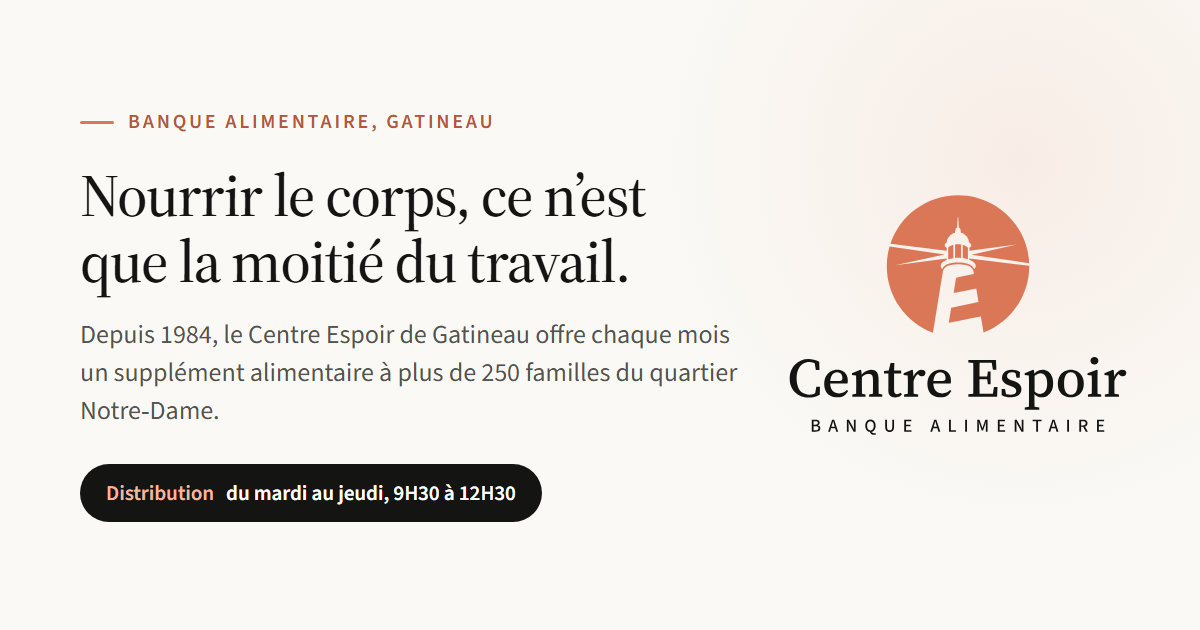
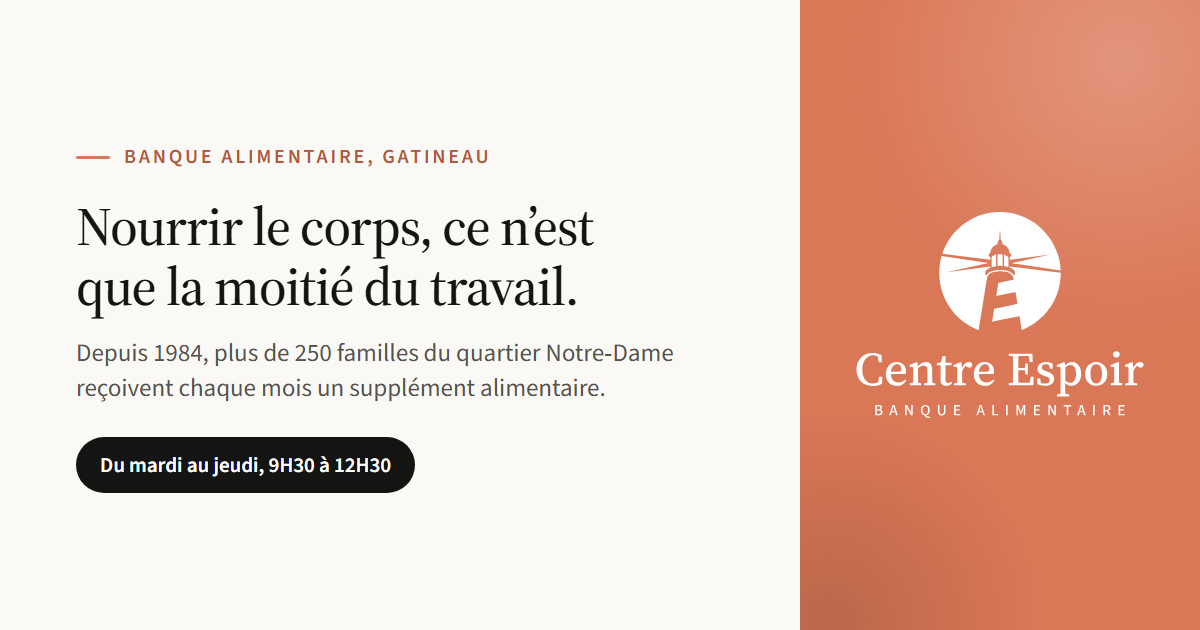
Une carte de partage par page, et le site pret pour Google
- Six cartes 1200 x 630 : les mots sur creme, le logo blanc sur un panneau
  terracotta. Chaque page annonce la sienne, avec un numero de version.
- Titres sous 60 caracteres, descriptions entre 110 et 158, sur toutes les
  pages ; un test le verifie.
- Donnees structurees NGO + LocalBusiness : adresse, coordonnees, heures
  d ouverture, numero d enregistrement, territoire desservi.
- Balises Twitter et og:image:alt.
- Redirections des anciennes adresses Wix probables vers les bonnes pages.
- Le guide explique a David Search Console, la fiche Google et Wix.

diff --git a/src/partials/layout.html b/src/partials/layout.html
@@ -17,35 +17,69 @@
   <meta property="og:title" content="{{ title }}">
   <meta property="og:description" content="{{ description }}">
   <meta property="og:url" content="{{ canonical }}">
-  <meta property="og:image" content="https://centreespoir.ca/og.png?v={{ og_v }}">
+  <meta property="og:image" content="{{ og_image }}">
   <meta property="og:image:width" content="1200">
   <meta property="og:image:height" content="630">
+  <meta property="og:image:alt" content="{{ og_alt }}">
   <meta name="twitter:card" content="summary_large_image">
+  <meta name="twitter:title" content="{{ title }}">
+  <meta name="twitter:description" content="{{ description }}">
+  <meta name="twitter:image" content="{{ og_image }}">
+  <meta name="twitter:image:alt" content="{{ og_alt }}">
   <link rel="preload" href="/assets/fonts/SourceSerif4-normal-400-700.woff2" as="font" type="font/woff2" crossorigin>
   <link rel="preload" href="/assets/fonts/SourceSans3-normal-400-700.woff2" as="font" type="font/woff2" crossorigin>
   <link rel="stylesheet" href="{{ css }}">
   <script type="application/ld+json">
   {
     "@context": "https://schema.org",
-    "@type": "NGO",
-    "name": "Centre Espoir de Gatineau",
-    "alternateName": "Centre Espoir",
-    "url": "https://centreespoir.ca",
-    "logo": "https://centreespoir.ca/assets/img/logo-vertical.svg",
-    "foundingDate": "1984",
-    "telephone": "+1-819-663-3238",
-    "email": "info@centreespoir.ca",
-    "address": {
-      "@type": "PostalAddress",
-      "streetAddress": "791, boulevard Maloney Est",
-      "addressLocality": "Gatineau",
-      "addressRegion": "QC",
-      "postalCode": "J8P 1H8",
-      "addressCountry": "CA"
-    },
-    "sameAs": [
-      "https://www.facebook.com/centreespoirgatineau",
-      "https://www.instagram.com/centreespoirgatineau"
+    "@graph": [
+      {
+        "@type": "WebSite",
+        "@id": "https://centreespoir.ca/#site",
+        "url": "https://centreespoir.ca",
+        "name": "Centre Espoir de Gatineau",
+        "inLanguage": "fr-CA",
+        "publisher": { "@id": "https://centreespoir.ca/#org" }
+      },
+      {
+        "@type": ["NGO", "LocalBusiness"],
+        "@id": "https://centreespoir.ca/#org",
+        "name": "Centre Espoir de Gatineau",
+        "alternateName": "Centre Espoir",
+        "legalName": "Centre Espoir de Gatineau",
+        "description": "Banque alimentaire fondée en 1984 au service du quartier Notre-Dame et des secteurs environnants de Gatineau. Plus de 250 familles aidées chaque mois.",
+        "slogan": "Nourrir le corps, ce n’est que la moitié du travail.",
+        "url": "https://centreespoir.ca",
+        "logo": "https://centreespoir.ca/assets/img/logo-vertical.svg",
+        "image": "https://centreespoir.ca/og.png",
+        "foundingDate": "1984",
+        "taxID": "848106365RR0001",
+        "telephone": "+1-819-663-3238",
+        "email": "info@centreespoir.ca",
+        "priceRange": "$",
+        "address": {
+          "@type": "PostalAddress",
+          "streetAddress": "791, boulevard Maloney Est",
+          "addressLocality": "Gatineau",
+          "addressRegion": "QC",
+          "postalCode": "J8P 1H8",
+          "addressCountry": "CA"
+        },
+        "geo": { "@type": "GeoCoordinates", "latitude": 45.4830815, "longitude": -75.614716 },
+        "hasMap": "https://maps.google.com/?q=791+Boulevard+Maloney+E,+Gatineau,+QC+J8P+1H8",
+        "areaServed": { "@type": "City", "name": "Gatineau", "sameAs": "https://www.wikidata.org/wiki/Q140884" },
+        "openingHoursSpecification": [{
+          "@type": "OpeningHoursSpecification",
+          "dayOfWeek": ["Tuesday", "Wednesday", "Thursday"],
+          "opens": "09:30",
+          "closes": "12:30"
+        }],
+        "knowsLanguage": ["fr-CA", "en-CA"],
+        "sameAs": [
+          "https://www.facebook.com/centreespoirgatineau",
+          "https://www.instagram.com/centreespoirgatineau"
+        ]
+      }
     ]
   }
   </script>

diff --git a/test/site.test.js b/test/site.test.js
@@ -39,6 +39,19 @@ test('every page has a title, a description, one h1, and no leftover template ma
   }
 });
 
+test('titles fit a search result and descriptions fit a preview', () => {
+  for (const [f, h] of Object.entries(html)) {
+    const title = h.match(/<title>([^<]+)<\/title>/)[1];
+    const desc = h.match(/<meta name="description" content="([^"]+)"/)[1];
+    assert.ok(title.length <= 60, `${f}: title is ${title.length} chars, max 60`);
+    assert.ok(desc.length >= 110 && desc.length <= 158, `${f}: description is ${desc.length} chars, want 110 to 158`);
+    const og = h.match(/<meta property="og:image" content="https:\/\/centreespoir\.ca\/([^"?]+)\?v=[0-9a-f]{10}"/);
+    assert.ok(og, `${f}: og:image must be an absolute, versioned address`);
+    assert.ok(fs.existsSync(path.join(OUT, og[1])), `${f}: share card ${og[1]} does not exist`);
+    assert.match(h, /"@type": \["NGO", "LocalBusiness"\]/, `${f}: structured data`);
+  }
+});
+
 test('internal links and local assets resolve to files', () => {
   const exists = (u) => {
     const clean = u.split(/[?#]/)[0];

diff --git a/src/pages/aide-alimentaire.html b/src/pages/aide-alimentaire.html
@@ -1,7 +1,9 @@
 ---
-title: Aide alimentaire, Centre Espoir de Gatineau
-description: Vous habitez le quartier Notre-Dame ou les secteurs environnants et les fins de mois sont difficiles? Le Centre Espoir distribue des paniers alimentaires du mardi au jeudi, 9H30 à 12H30. Voici comment faire une demande.
+title: Aide alimentaire à Gatineau, Centre Espoir
+description: Besoin d’un panier? Le Centre Espoir aide les résidents du quartier Notre-Dame à Gatineau, du mardi au jeudi, 9H30 à 12H30. Comment faire une demande.
 priority: 0.9
+og_image: og-aide-alimentaire.png
+og_alt: Un panier pour passer le mois, sans jugement. Distribution du mardi au jeudi, 9H30 à 12H30.
 ---
     <section class="page-head">
       <div class="container page-head-grid">

diff --git a/src/pages/a-propos.html b/src/pages/a-propos.html
@@ -1,7 +1,9 @@
 ---
-title: À propos du Centre Espoir de Gatineau
-description: Fondé en 1984, le Centre Espoir de Gatineau est une banque alimentaire au service du quartier Notre-Dame. Son origine, sa mission, sa vision d'un centre plus grand avec un espace café, et son conseil d'administration.
+title: Notre mission, Centre Espoir de Gatineau
+description: Fondé en 1984, le Centre Espoir de Gatineau nourrit plus de 250 familles chaque mois. Son origine, sa mission, sa vision et son conseil d’administration.
 priority: 0.8
+og_image: og-a-propos.png
+og_alt: Plus de 40 ans au cœur du quartier Notre-Dame. Organisme de bienfaisance enregistré.
 ---
     <section class="page-head">
       <div class="container page-head-grid">

diff --git a/src/pages/index.html b/src/pages/index.html
@@ -1,8 +1,9 @@
 ---
-title: Centre Espoir de Gatineau, banque alimentaire du quartier Notre-Dame
-description: Banque alimentaire fondée en 1984, le Centre Espoir de Gatineau offre chaque mois un supplément alimentaire à plus de 250 familles du quartier Notre-Dame et des secteurs environnants. Distribution du mardi au jeudi, 9H30 à 12H30.
+title: Centre Espoir de Gatineau, banque alimentaire
+description: Banque alimentaire fondée en 1984 à Gatineau. Chaque mois, plus de 250 familles du quartier Notre-Dame reçoivent un panier. Distribution du mardi au jeudi.
 priority: 1.0
 body_class: home
+og_image: og.png
 ---
     <section class="hero">
       <div class="container hero-grid">

diff --git a/src/pages/dons.html b/src/pages/dons.html
@@ -1,7 +1,9 @@
 ---
 title: Faire un don, Centre Espoir de Gatineau
-description: Soutenez la banque alimentaire du quartier Notre-Dame. Don en ligne, virement Interac ou don de denrées. Reçu officiel pour fins d'impôt. Organisme de bienfaisance enregistré 848106365RR0001.
+description: Soutenez la banque alimentaire du quartier Notre-Dame à Gatineau : don en ligne, virement Interac ou denrées. Reçu officiel d’impôt pour chaque don.
 priority: 0.9
+og_image: og-dons.png
+og_alt: Votre don se retrouve directement dans les paniers. Reçu officiel pour fins d’impôt.
 ---
     <section class="page-head">
       <div class="container page-head-grid">

diff --git a/src/pages/benevolat.html b/src/pages/benevolat.html
@@ -1,7 +1,9 @@
 ---
 title: Devenir bénévole, Centre Espoir de Gatineau
-description: Trier les denrées, préparer les paniers, accueillir les familles. Le Centre Espoir de Gatineau cherche des bénévoles de tous les âges. Aucune expérience nécessaire.
+description: Trier, préparer les paniers, accueillir les familles : le Centre Espoir de Gatineau cherche des bénévoles de tous âges. Aucune expérience nécessaire.
 priority: 0.8
+og_image: og-benevolat.png
+og_alt: Quelques heures de votre semaine, des centaines de paniers remplis. Dès 14 ans.
 ---
     <section class="page-head">
       <div class="container page-head-grid">

diff --git a/src/pages/nous-joindre.html b/src/pages/nous-joindre.html
@@ -1,7 +1,9 @@
 ---
 title: Nous joindre, Centre Espoir de Gatineau
-description: Centre Espoir de Gatineau, 791, boulevard Maloney Est, Gatineau (Québec) J8P 1H8. Téléphone 819-663-3238. Distribution alimentaire du mardi au jeudi, 9H30 à 12H30.
+description: Centre Espoir de Gatineau, 791, boulevard Maloney Est. Téléphone 819-663-3238. Distribution alimentaire du mardi au jeudi, 9H30 à 12H30.
 priority: 0.7
+og_image: og-nous-joindre.png
+og_alt: 791, boulevard Maloney Est, Gatineau. 819-663-3238. Du mardi au jeudi, 9H30 à 12H30.
 ---
     <section class="page-head">
       <div class="container">

diff --git a/src/pages/confidentialite.html b/src/pages/confidentialite.html
@@ -1,7 +1,8 @@
 ---
-title: Politique de confidentialité, Centre Espoir de Gatineau
-description: Quels renseignements le site du Centre Espoir de Gatineau recueille, pourquoi, et comment ils sont protégés.
+title: Politique de confidentialité, Centre Espoir
+description: Ce que le site du Centre Espoir de Gatineau recueille, pourquoi, et comment vos renseignements personnels sont protégés. Aucun témoin de suivi.
 priority: 0.3
+og_image: og.png
 ---
     <section class="page-head">
       <div class="container container-narrow">

diff --git a/src/pages/404.html b/src/pages/404.html
@@ -1,7 +1,8 @@
 ---
 title: Page introuvable, Centre Espoir de Gatineau
-description: Cette page n'existe pas ou a été déplacée.
+description: Cette page n’existe pas ou a été déplacée. Retrouvez l’aide alimentaire, le bénévolat, les dons et nos coordonnées depuis l’accueil.
 sitemap: no
+og_image: og.png
 ---
     <section class="error-page">
       <div class="container container-narrow">

diff --git a/DEPLOYMENT_GUIDE.md b/DEPLOYMENT_GUIDE.md
@@ -98,14 +98,18 @@ Text, hours, names, links: tell Claude, or edit the file yourself on GitHub
 rebuilds and is live in about two minutes. `update.sh` copies the reverse-proxy
 file from `deploy/` on every deploy, so routing changes ship the same way.
 
-The share-card image (`og.png`) and the iOS icon are generated files. When the
-logo or the card wording changes:
+The share cards (`og.png` for the home page, `og-<page>.png` for each other
+page: what Facebook, Messenger or a text message shows when a link is sent) and
+the iOS icon are generated files. Their wording lives in `build/make-images.mjs`.
+When the logo or that wording changes:
 
 ```bash
 node build/make-images.mjs
 ```
 
-then commit `src/root/og.png` and `src/root/apple-touch-icon.png`.
+then commit everything in `src/root/`. Facebook keeps its own copy of a card;
+paste the address in https://developers.facebook.com/tools/debug/ and press
+"Scrape again" to make it fetch the new one.
 
 ## 6. Facts on the site still to confirm
 
@@ -131,7 +135,48 @@ These were written from what you told me and from the old site. Read them once:
   est le directeur des opérations." Quebec's Law 25 requires naming one; change
   if it is someone else.
 
-## 7. If something breaks
+## 7. Being found on Google (your part, about 20 minutes)
+
+The site does its share: every page has a title under 60 characters and a
+description under 160, a sitemap at `/sitemap.xml`, and structured data that
+tells Google it is a food bank in Gatineau, with the address, the coordinates,
+the hours and the charity number. Google itself still shows the old Wix result
+until it recrawls; the old Wix addresses it lists (`/aide`, the privacy policy)
+redirect to the right pages, so nobody lands on an error. Three things only you
+can do will speed it up and put the Centre in the map results:
+
+**A. Google Search Console.** Your domain is already verified there (a
+`google-site-verification` record exists in Cloudflare). Go to
+https://search.google.com/search-console, pick the `centreespoir.ca` property,
+then:
+1. **Sitemaps** (left menu) → enter `sitemap.xml` → **Submit**.
+2. **URL inspection** (top bar) → paste `https://centreespoir.ca/` → **Request
+   indexing**. Repeat for `/aide-alimentaire`, `/dons`, `/benevolat`,
+   `/a-propos`, `/nous-joindre`. Each request takes a minute; Google usually
+   recrawls within a day or two.
+
+**B. Google Business Profile.** This is what puts the Centre on the map when
+someone searches "banque alimentaire Gatineau". Go to
+https://business.google.com, claim or open the profile for Centre Espoir de
+Gatineau, and check:
+- **Website**: `https://centreespoir.ca` (not the Wix address).
+- **Hours**: Tuesday, Wednesday, Thursday, 9:30 to 12:30, closed the other days.
+- **Category**: "Banque alimentaire" first, then "Organisme sans but lucratif".
+- **Description**: paste the first paragraph of the home page.
+- **Photos**: a photo of the entrance and one of the shelves. Profiles with
+  photos get chosen far more often, and this is the one place illustrations
+  cannot stand in.
+- Turn on **messages** or leave the phone as the contact, your choice.
+
+**C. Hide the Wix site from Google.** It is still published for the two forms,
+and Google may keep listing it next to the new site. In the Wix dashboard:
+Settings → SEO → uncheck "Let search engines index your site" (the wording
+varies). The forms keep working; only the listing disappears.
+
+Optional, five minutes: https://www.bing.com/webmasters, import the site from
+Search Console, and Bing (and so Copilot and DuckDuckGo) follows.
+
+## 8. If something breaks
 
 ```bash
 cd /opt/site && docker compose ps && docker compose logs --tail=40 site
